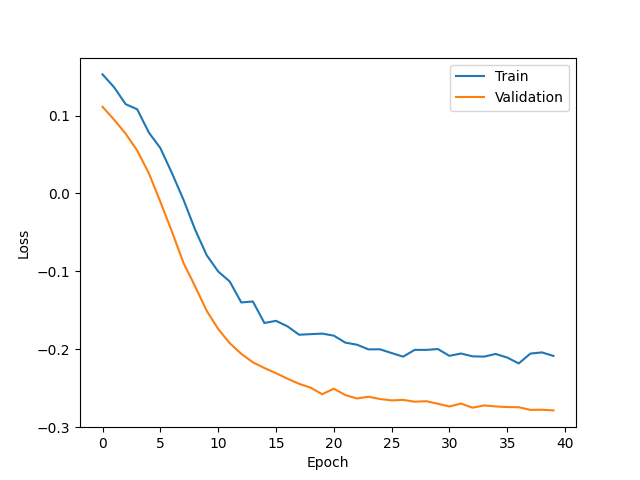
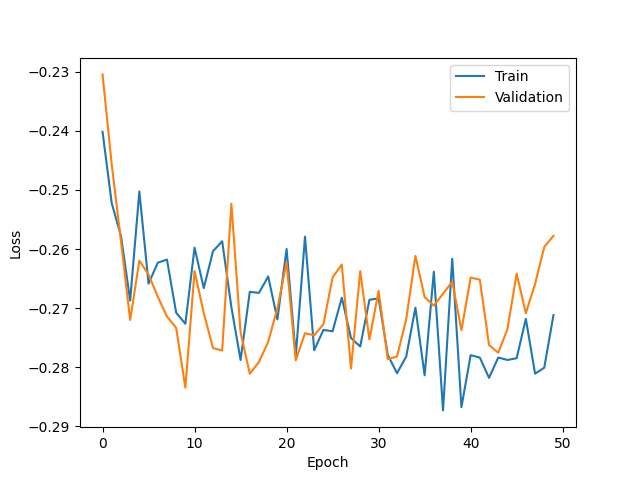
fix

diff --git a/src/make_data.py b/src/make_data.py
@@ -41,7 +41,7 @@ class DatasetGenerator:
             dataset |= self.generate_treatment(dataset["features"], dataset["RCT_flag"])
             # auc_score = self.calculate_auc(dataset["T"], dataset["T_prob"])
             if self.predict_ps:
-                dataset |= self.predict_treatment(dataset["features"], dataset["T"])
+                dataset |= self.predict_treatment(dataset["features"], dataset["T"], dataset["RCT_flag"])
                 propensity_score = dataset["T_prob_pred"]
             else:
                 propensity_score = dataset["T_prob"]
@@ -98,7 +98,7 @@ class DatasetGenerator:
             (
                 np.sum(features, axis=1)
                 - 2.0
-                + np.random.normal(0, 0.0, size=len(features))
+                + np.random.normal(0, 1.0, size=len(features))
             )
             / 0.7
         )
@@ -124,10 +124,12 @@ class DatasetGenerator:
         self,
         features: NDArray[Any],
         T: NDArray[Any],
+        rct_flag: NDArray[Any],
     ) -> Dict[str, NDArray[Any]]:
         lgb = LGBMClassifier(verbose=-1, random_state=42)
         lgb.fit(features, T)
         T_prob_pred = lgb.predict_proba(features)[:, 1]
+        T_prob_pred[rct_flag == 1] = 0.5
         T_prob_pred = T_prob_pred.clip(0.01, 0.99)
         return {"T_prob_pred": T_prob_pred}
 

diff --git a/main.py b/main.py
@@ -74,10 +74,10 @@ def main(predict_ps: bool) -> None:
     n_samples = 100_000
     test_samples = 100_000
     n_features = 4
-    num_epochs_list = [100, 40, 40]
-    lr_list = [0.0005, 0.001, 0.001]
+    num_epochs_list = [300, 50, 50]
+    lr_list = [0.0005, 0.001, 0.0005]
     delta = 0.0
-    rct_ratio = 0.2
+    rct_ratio = 0.1
     batch_size = 256
     model_name = "Direct"
     model_params = {"input_dim": n_features}
@@ -235,4 +235,4 @@ def main(predict_ps: bool) -> None:
 
 
 if __name__ == "__main__":
-    main(predict_ps=False)
+    main(predict_ps=True)
